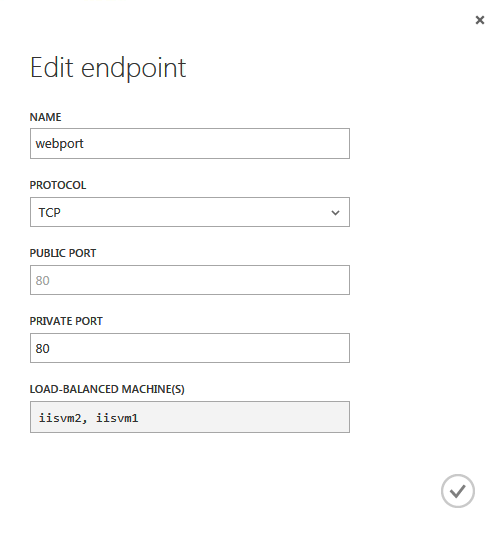
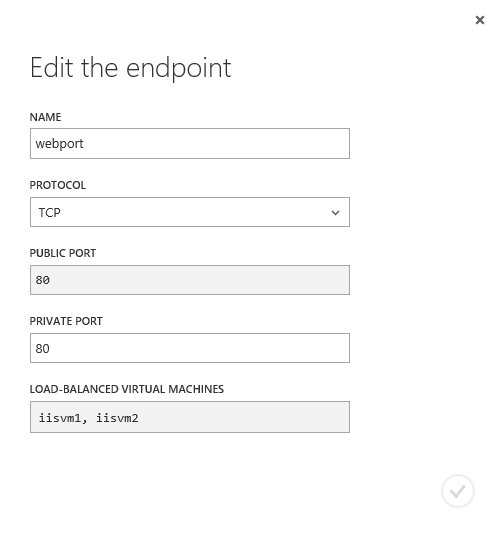
Updated portal screens and updated VM references to Virtual Machine

diff --git a/HOL.md b/HOL.md
@@ -41,12 +41,12 @@ This hands-on lab includes the following exercises:
 Estimated time to complete this lab: **45 minutes**.
 
 <a name="Exercise1"></a>
-### Exercise 1: Creating VMs for IIS ###
+### Exercise 1: Creating Virtual Machines for IIS ###
 
 In this exercise, you will learn how to create a Virtual Machine in Windows Azure. Then, you will configure an Internet Information Server adding roles to use later on in this lab.
 
 <a name="Ex1Task1"></a>
-#### Task 1 - Creating IIS VMs ####
+#### Task 1 - Creating IIS Virtual Machines ####
 
 In this task, you will provision a Virtual Machine and configure the Load Balancing to host an MVC4 application.
 
@@ -58,59 +58,59 @@ In this task, you will provision a Virtual Machine and configure the Load Balanc
 
 	_Creating a new Virtual Machine_
  
-1. In the **VM OS Selection** page, click **Platform Images** on the left menu and select the **Windows Server 2008 R2 SP1, August 2012** OS image from the list. Click the arrow to continue.	
+1. In the **Virtual Machine OS Selection** page, click **Platform Images** on the left menu and select the **Windows Server 2008 R2 SP1** OS image from the list. Click the arrow to continue.	
 
-1. In the VM Configuration page, enter the Virtual Machine Name (i.e. "iisvm1") and the administrator user's Password. This password needs to contain three of these – lower case characters, uppercase characters, numbers and special characters. Make sure you remember your choice. Click the right arrow to continue.
+1. In the Virtual Machine Configuration page, set the version release date to **February 12, 2013**. Enter the Virtual Machine Name (i.e. "iisvm1") and the administrator user's Password. This password needs to contain three of these – lower case characters, uppercase characters, numbers and special characters. Make sure you remember your choice. Click the right arrow to continue.
 
 	![Configuring a Custom VM](images/creating-a-vm-configuration.png?raw=true)
 	 
-	_Creating a VM - Configuration_
+	_Creating a Virtual Machine - Configuration_
  
 	>**Note:** It is suggested to use secure passwords for admin users, as Windows Azure virtual machines could be accessible from the Internet knowing just their DNS.
 	>
 	>You can also read this document on the Microsoft Security website that will help you select a secure password:  [http://www.microsoft.com/security/online-privacy/passwords-create.aspx](http://www.microsoft.com/security/online-privacy/passwords-create.aspx)
  
-1. In the **VM Mode** page, select **Standalone Virtual Machine**, enter the **DNS Name**, select a **Storage Account** or leave the default value _Use Automatically Generated Storage Account_, and select a **Region/Affinity Group/Virtual Network**. Click the **right arrow** to continue. 
+1. In the **Virtual Machine Mode** page, select **Standalone Virtual Machine**, enter the **DNS Name**, select a **Storage Account** or leave the default value _Use Automatically Generated Storage Account_, and select a **Region/Affinity Group/Virtual Network**. Click the **right arrow** to continue. 
 
 	![Configuring a Custom VM, VM Mode](images/creating-a-vm-vm-mode.png?raw=true)
  
-	_Creating a VM - VM Mode_
+	_Creating a Virtual Machine - VM Mode_
 
-1. In the **VM Options** page, leave the default values and click the **Finish** button to create a new VM.
+1. In the **Virtual Machine Options** page, leave the default values and click the **Finish** button to create a new VM.
 
 	![Creating a VM - VM Options](images/creating-a-vm--vm-options.png?raw=true "Creating a VM - VM Options")
 
-	_Creating a VM - VM Options_
+	_Creating a Virtual Machine - Virtual Machine Options_
 
-1. In the **Virtual Machines** section, you will see the VM you created with a _Starting (provisioning)_ status. Wait until it changes to _Running_ in order to continue with the following step as you will need a provisioned VM on the following steps.
+1. In the **Virtual Machines** section, you will see the Virtual Machine you created with a _Starting (provisioning)_ status. Wait until it changes to _Running_ in order to continue with the following step as you will need a provisioned VM on the following steps.
 
  	![Creating VM for IIS Web Farm](./images/creating-vm-for-iis-web-farm.png?raw=true "Creating VM for IIS Web Farm")
  
-	_Creating VM for IIS Web Farm_
+	_Creating Virtual Machine for IIS Web Farm_
 
 	> **Note:** It will take from 8 to 10 minutes for the Virtual Machine to complete the provisioning process.
 
-1. You will now add the second VM for the IIS Load Balancing. In the portal, select **New | Compute | Virtual Machine | From Gallery**. 
+1. You will now add the second Virtual Machine for the IIS Load Balancing. In the portal, select **New | Compute | Virtual Machine | From Gallery**. 
 
-1. In the **VM OS Selection** page, click **Platform Images** on the left menu and select the **Windows Server 2008 R2 SP1, August** OS image from the list. Click the **arrow** to continue.	
+1. In the **Virtual Machine OS Selection** page, click **Platform Images** on the left menu and select the **Windows Server 2008 R2 SP1, August** OS image from the list. Click the **arrow** to continue.	
 
-1. In the **VM Configuration** page, enter the **Virtual Machine Name** (i.e. "_iisvm2_"), the administrator user's **Password** and the **Size**. Click the **right arrow** to continue.
+1. In the **Virtual Machine Configuration** page, set the version release date to **February 12, 2013**. Enter the **Virtual Machine Name** (i.e. "_iisvm2_"), the administrator user's **Password** and the **Size**. Click the **right arrow** to continue.
  
-1. In the **VM Mode** page, select **Connect to existing Virtual Machine** and choose the first VM you created from the drop down list. Select a **Storage Account** or leave the default value _Use Automatically Generated Storage Account_ and click the **right arrow** to continue. This step adds the new virtual machine to the cloud service created in the previous step. This allows the virtual machines to be on the same network.
+1. In the **Virtual Machine Mode** page, select **Connect to existing Virtual Machine** and choose the first VM you created from the drop down list. Select a **Storage Account** or leave the default value _Use Automatically Generated Storage Account_ and click the **right arrow** to continue. This step adds the new virtual machine to the cloud service created in the previous step. This allows the virtual machines to be on the same network.
 
 
 	![Configuring a Custom VM, VM Mode](images/creating-a-vm-vm-mode2.png?raw=true)
 	 
-	_Creating a VM - VM Mode_
+	_Creating a Virtual Machine - Virtual Machine Mode_
 
  
-1. In the **VM Options** page, leave the default values and click the button to create a new VM.
+1. In the **Virtual Machine Options** page, leave the default values and click the button to create a new Virtual Machine.
 
 1. Wait until the second VM is created. You can check the VM status from the Virtual Machines section within the portal.
 
 	> **Note:** It will take from 8 to 10 minutes for the Virtual Machine to complete the provisioning process.
 
-1. After creating the second VM, you will create an endpoint in the port 80 in the Virtual Machine you created first. To do this, click on the first VM Name (_iisvm1_) to go to the **Dashboard** page and then click **Endpoints**. Click **Add Endpoint** on the bottom pane. 
+1. After creating the second Virtual Machine, you will create an endpoint in the port 80 in the Virtual Machine you created first. To do this, click on the first Virtual Machine Name (_iisvm1_) to go to the **Dashboard** page and then click **Endpoints**. Click **Add Endpoint** on the bottom pane. 
 
 	![Selecting Add Endpoint in the dashboard](images/adding-a-new-endpoint-dashboard.png?raw=true "Selecting Add Endpoint in the dashboard")
 
@@ -130,9 +130,9 @@ In this task, you will provision a Virtual Machine and configure the Load Balanc
 
 	> **Note:** It will take some minutes to create a new endpoint.
 
-1. Now, create a new Endpoint in the second VM in order to enable Load Balancing between both VMs. To do this, click **Virtual Machines** and then select the second VM you created. Then, click **Endpoints**.
+1. Now, create a new Endpoint in the second Virtual Machine in order to enable Load Balancing between both Virtual Machines. To do this, click **Virtual Machines** and then select the second Virtual Machine you created. Then, click **Endpoints**.
 
-1. Click **Add Endpoint**, select **Load Balance Traffic On An Existing Endpoint** option. Select the endpoint you created for the first VM from the drop down list and then click the **right arrow** to continue.
+1. Click **Add Endpoint**, select **Load Balance Traffic On An Existing Endpoint** option. Select the endpoint you created for the first Virtual Machine from the drop down list and then click the **right arrow** to continue.
 
 	![Load Balance Traffic An Existing Endpoint](images/load-balance-traffic-an-an-existing-endpoint.png?raw=true "Load Balance Traffic An Existing Endpoint")
 
@@ -142,7 +142,7 @@ In this task, you will provision a Virtual Machine and configure the Load Balanc
 
 	> **Note:** It will take some minutes to create a new endpoint.
 
-1. In the **Virtual Machines** section, click on the first VM Name (_iisvm1_) and then click **Endpoints**. 
+1. In the **Virtual Machines** section, click on the first Virtual Machine Name (_iisvm1_) and then click **Endpoints**. 
 
 1. Select the **webport** endpoint you have created. Make sure the **Load Balancer** column value is **Yes**. 
 
@@ -159,15 +159,15 @@ In this task, you will provision a Virtual Machine and configure the Load Balanc
 <a name="Ex1Task2"></a>
 #### Task 2 - Configuring IIS VMs ####
 
-In this task, you will configure the IIS VMs by adding the necessary roles to deploy the MVC application.
+In this task, you will configure the IIS Virtual Machines by adding the necessary roles to deploy the MVC application.
 
 1. In the Portal, click **Virtual Machines** on the left menu.
 
-1. You will see a list with your existing VMs. Select the first one you created in Task 1 and click the **Connect** button in the bottom bar. If you used the proposed name, this VM should be named **iisvm1**.
+1. You will see a list with your existing Virtual Machines. Select the first one you created in Task 1 and click the **Connect** button in the bottom bar. If you used the proposed name, this Virtual Machine should be named **iisvm1**.
 
-1. You will be asked to download the remote desktop settings file. Click **Open** and log on using the Admin credentials you defined when creating the VM.
+1. You will be asked to download the remote desktop settings file. Click **Open** and log on using the Admin credentials you defined when creating the Virtual Machine.
 
-1. In the Azure VM, open **Server Manager** from **Start | All Programs | Administrative Tools**.
+1. In the Azure Virtual Machine, open **Server Manager** from **Start | Administrative Tools**.
 
 1. In the **Server Manager** window, select **Roles** node.
 
@@ -217,27 +217,27 @@ In this task, you will configure the IIS VMs by adding the necessary roles to de
 
 1. Close the **Remote Desktop Connection**.
 
-	Repeat this task on the second VM to install IIS, starting from step 4. If you used the proposed name, the second VM should be named **iisvm2**.
+	Repeat this task on the second Virtual Machine to install IIS, starting from step 4. If you used the proposed name, the second Virtual Machine should be named **iisvm2**.
 
 <a name="Exercise2"></a>
-### Exercise 2: Creating a SQL Server VM ###
+### Exercise 2: Creating a SQL Server Virtual Machine ###
 
-In this exercise, you will create a new VM and learn how to install SQL Server. You will add disk images to the existing VM in order to split the data from the logs generated by SQL Server.
+In this exercise, you will create a new VM and learn how to install SQL Server. You will add disk images to the existing Virtual Machine in order to split the data from the logs generated by SQL Server.
 
 <a name="Ex2Task1"></a>
 #### Task 1 - Creating a SQL Server VM ####
 
-In this task, you will create a new VM using the Windows Azure portal in the same Cloud App you deployed the IIS VMs.
+In this task, you will create a new Virtual Machine using the Windows Azure portal in the same Cloud App you deployed the IIS VMs.
 
 1. In the menu located at the bottom, select **New | Compute | Virtual Machine | From Gallery** to start creating a new virtual machine.
  
-1. In the **VM OS Selection** page, click **Platform Images** on the left menu and select the **Microsoft SQL Server 2012** image from the list. Click the arrow to continue.	
+1. In the **Virtual Machine OS Selection** page, click **Platform Images** on the left menu and select the **Microsoft SQL Server 2012** image from the list. Click the arrow to continue.	
 
-1. In the **VM Configuration** page, enter the **Virtual Machine Name** (i.e. "_sqlvm1_"), the administrator user's **Password** and the **Size**. Click the **right arrow** to continue.
+1. In the **Virtual Machine Configuration** page, enter the **Virtual Machine Name** (i.e. "_sqlvm1_"), the administrator user's **Password** and the **Size**. Click the **right arrow** to continue.
  
-1. In the **VM Mode** page, select **Connect to existing Virtual Machine** and choose the first IIS VM you created from the drop down list (_iisvm1_). Click the **right arrow** to continue.
+1. In the **Virtual Machine Mode** page, select **Connect to existing Virtual Machine** and choose the first IIS Virtual Machine you created from the drop down list (_iisvm1_). Click the **right arrow** to continue.
  
-1. In the **VM Options** page, leave the default values and click the button to create a new VM.
+1. In the **Virtual Machine Options** page, leave the default values and click the button to create a new Virtual Machine.
 
 1. In the **Virtual Machines** section, you will see the VM you created with a _provisioning_ status. Wait until it changes to _Running_ in order to continue with the following step.
 
@@ -246,11 +246,11 @@ In this task, you will create a new VM using the Windows Azure portal in the sam
 <a name="Ex2Task2"></a> 
 #### Task 2 - Attaching Empty Disk Images ####
 
-In this task, you will create two empty data disks and attach them to an existing VM using the Windows Azure Management Portal. You will use these data disks to split SQL Server Data and Logs.
+In this task, you will create two empty data disks and attach them to an existing Virtual Machine using the Windows Azure Management Portal. You will use these data disks to split SQL Server Data and Logs.
 
-1. Now, you will create and attach empty data disks to store the SQL Server logs and data files, and you will also add an endpoint. To do this, in the **Virtual Machines** section, select the SQL Server VM you created in the previous task.
+1. Now, you will create and attach empty data disks to store the SQL Server logs and data files, and you will also add an endpoint. To do this, in the **Virtual Machines** section, select the SQL Server Virtual Machine you created in the previous task.
 
-1. In the VM's **Dashboard**, click **Attach** in the menu at the bottom of the page and select **Attach Empty Disk**.
+1. In the Virtual Machine's **Dashboard**, click **Attach** in the menu at the bottom of the page and select **Attach Empty Disk**.
 
 	![Attach Empty Disk](images/attach-empty-disk.png?raw=true "Attach Empty Disk")
 
@@ -260,19 +260,19 @@ In this task, you will create two empty data disks and attach them to an existin
 
 1. Wait until the process to attach the disk finishes. Repeat the steps 1 to 3 to create a second disk.
 
-1. Open the VM's **Dashboard**. You will see three disks: one for the **OS** and other two for **Data** and **Logs**.
+1. Open the Virtual Machine's **Dashboard**. You will see three disks: one for the **OS** and other two for **Data** and **Logs**.
 
-	> **Note:** It might take a few minutes until the data disks appear in the VM's dashboard within the Azure Portal.
+	> **Note:** It might take a few minutes until the data disks appear in the Virtual Machine's dashboard within the Azure Portal.
 
  	![Attached Data Disks](./images/Attached-Data-Disks.png?raw=true "Attached Data Disks")
  
 	_Attached Data Disks_
 
-1. Finally, you need to format the disks in order to access them from the Virtual Machine. To do this, click **Connect** to connect to the VM using **Remote Desktop connection**.
+1. Finally, you need to format the disks in order to access them from the Virtual Machine. To do this, click **Connect** to connect to the Virtual Machine using **Remote Desktop connection**.
 
 1. It will ask you to download the remote desktop settings file. Click **Open** and log on using the Admin credentials you defined when creating the VM.
 
-1. In the Virtual Machine, open **Server Manager** from **Start | All Programs | Administrative Tools**.
+1. In the Virtual Machine, open **Server Manager** from **Start | Administrative Tools**.
 
 1. Expand **Storage** node and select **Disk Management** option.
 
@@ -322,11 +322,9 @@ In this task, you will configure SQL Server 2012. You will create the database t
  
 	_Setting Database Default Locations_
 
-1. Now, a service restart is necessary for the changes to take effect. In order to restart the service, right click on your SQL Server instance and select **Restart** from the context menu.
-
 1. Restart SQL Server. In the **Object Explorer**, right-click on the server node and select **Restart**. 
 
-1.	In order to enable downloads from Internet Explorer you will need to update **Internet Explorer Enhanced Security Configuration**. In the Azure VM, open **Server Manager** from **Start | All Programs | Administrative Tools**.
+1.	In order to enable downloads from Internet Explorer you will need to update **Internet Explorer Enhanced Security Configuration**. In the Azure VM, open **Server Manager** from **Start | Administrative Tools | Server Manager**.
 
 1. In the **Server Manager**, click **Configure IE ESC** within **Security Information** section.
 
@@ -342,7 +340,7 @@ In this task, you will configure SQL Server 2012. You will create the database t
  
 	>**Note:** Modifying **Internet Explorer Enhanced Security** configurations is not good practice and is only for the purpose of this particular lab. The correct approach should be to download the files locally and then copy them to a shared folder or directly to the VM.
 
-1. This lab uses the **AdventureWorks** database. Open an **Internet Explorer** browser and go to <http://msftdbprodsamples.codeplex.com/> to download  the **SQL Server 2012** sample databases. Once on the page click SQL Server 2012 DW and then download Adventure Works 2012 Data File. Download the file to F:\Data.
+1. This lab uses the **AdventureWorks** database. Open an **Internet Explorer** browser and go to <http://msftdbprodsamples.codeplex.com/> to download  the **SQL Server 2012** sample databases. Once on the page click on **AdventureWorks Databases – 2008, 2008R2 and 2012** and then download Adventure Works 2012 Data File. Download the file to F:\Data.
 
 	>**Note:** The **AdventureWorks** database can also be downloaded as a .zip file. If you choose this format, right-click the file to open its properties window and then click **Unblock**. Then, extract the database to F:\Data.
 
@@ -418,7 +416,7 @@ In this task, you will configure SQL Server 2012. You will create the database t
  
 	_Mapping the new User to the AdventureWorks Database_
 
-1. Expand **AdventureWorks** database within **Databases** folder. In the **Security/Users** folder, double-click **CloudShop** user.
+1. Expand **AdventureWorks** database within **Databases** folder. In the **Users** folder under **Security**, double-click **CloudShop** user.
 
 1. Select the **Membership** page, and select the _db_owner_ role checkbox for the **CloudShop** user and click **OK**.
 
@@ -436,7 +434,7 @@ In this task, you will configure SQL Server 2012. You will create the database t
 
 1. Close the **SQL Server Management Studio**.
 
-1. In order to allow the MVC4 application access the SQL Server database you will need to add an **Inbound Rule** for the SQL Server requests in the **Windows Firewall**. To do this, open **Windows Firewall with Advanced Security** from **Start | All Programs | Administrative Tools**.
+1. In order to allow the MVC4 application access the SQL Server database you will need to add an **Inbound Rule** for the SQL Server requests in the **Windows Firewall**. To do this, open **Windows Firewall with Advanced Security** from **Start | Administrative Tools**.
 
 1. Select **Inbound Rules** node, right-click it and select **New Rule** to open the **New Inbound Rule Wizard**.
 
@@ -498,7 +496,7 @@ In this task, you will deploy the MVC4 application to the IIS VMs.
 
 1. You need to install **.NET Framework 4.0** before deploying the MVC4 application. In order to do that, you will enable downloads from IE update **Internet Explorer Enhanced Security Configuration**.
 
-	1. In the Azure VM, open Server Manager from **Start | All Programs | Administrative Tools**.
+	1. In the Azure VM, open Server Manager from **Start | Administrative Tools**.
 
 	1. In the **Server Manager**, click **Configure IE ESC** **within Security Information** **section**.
 
@@ -532,7 +530,7 @@ In this task, you will deploy the MVC4 application to the IIS VMs.
 	</connectionStrings>
 	````
 
-1. Open the **Internet Information Services (IIS) Manager** from **Start | All Programs | Administrative Tools**.
+1. Open the **Internet Information Services (IIS) Manager** from **Start | Administrative Tools**.
 
 1. In the **Connections** pane, expand **Default Web Site** within your IIS Server's node. You will see the **CloudShop** folder you copied in the **wwwroot** folder.
 
